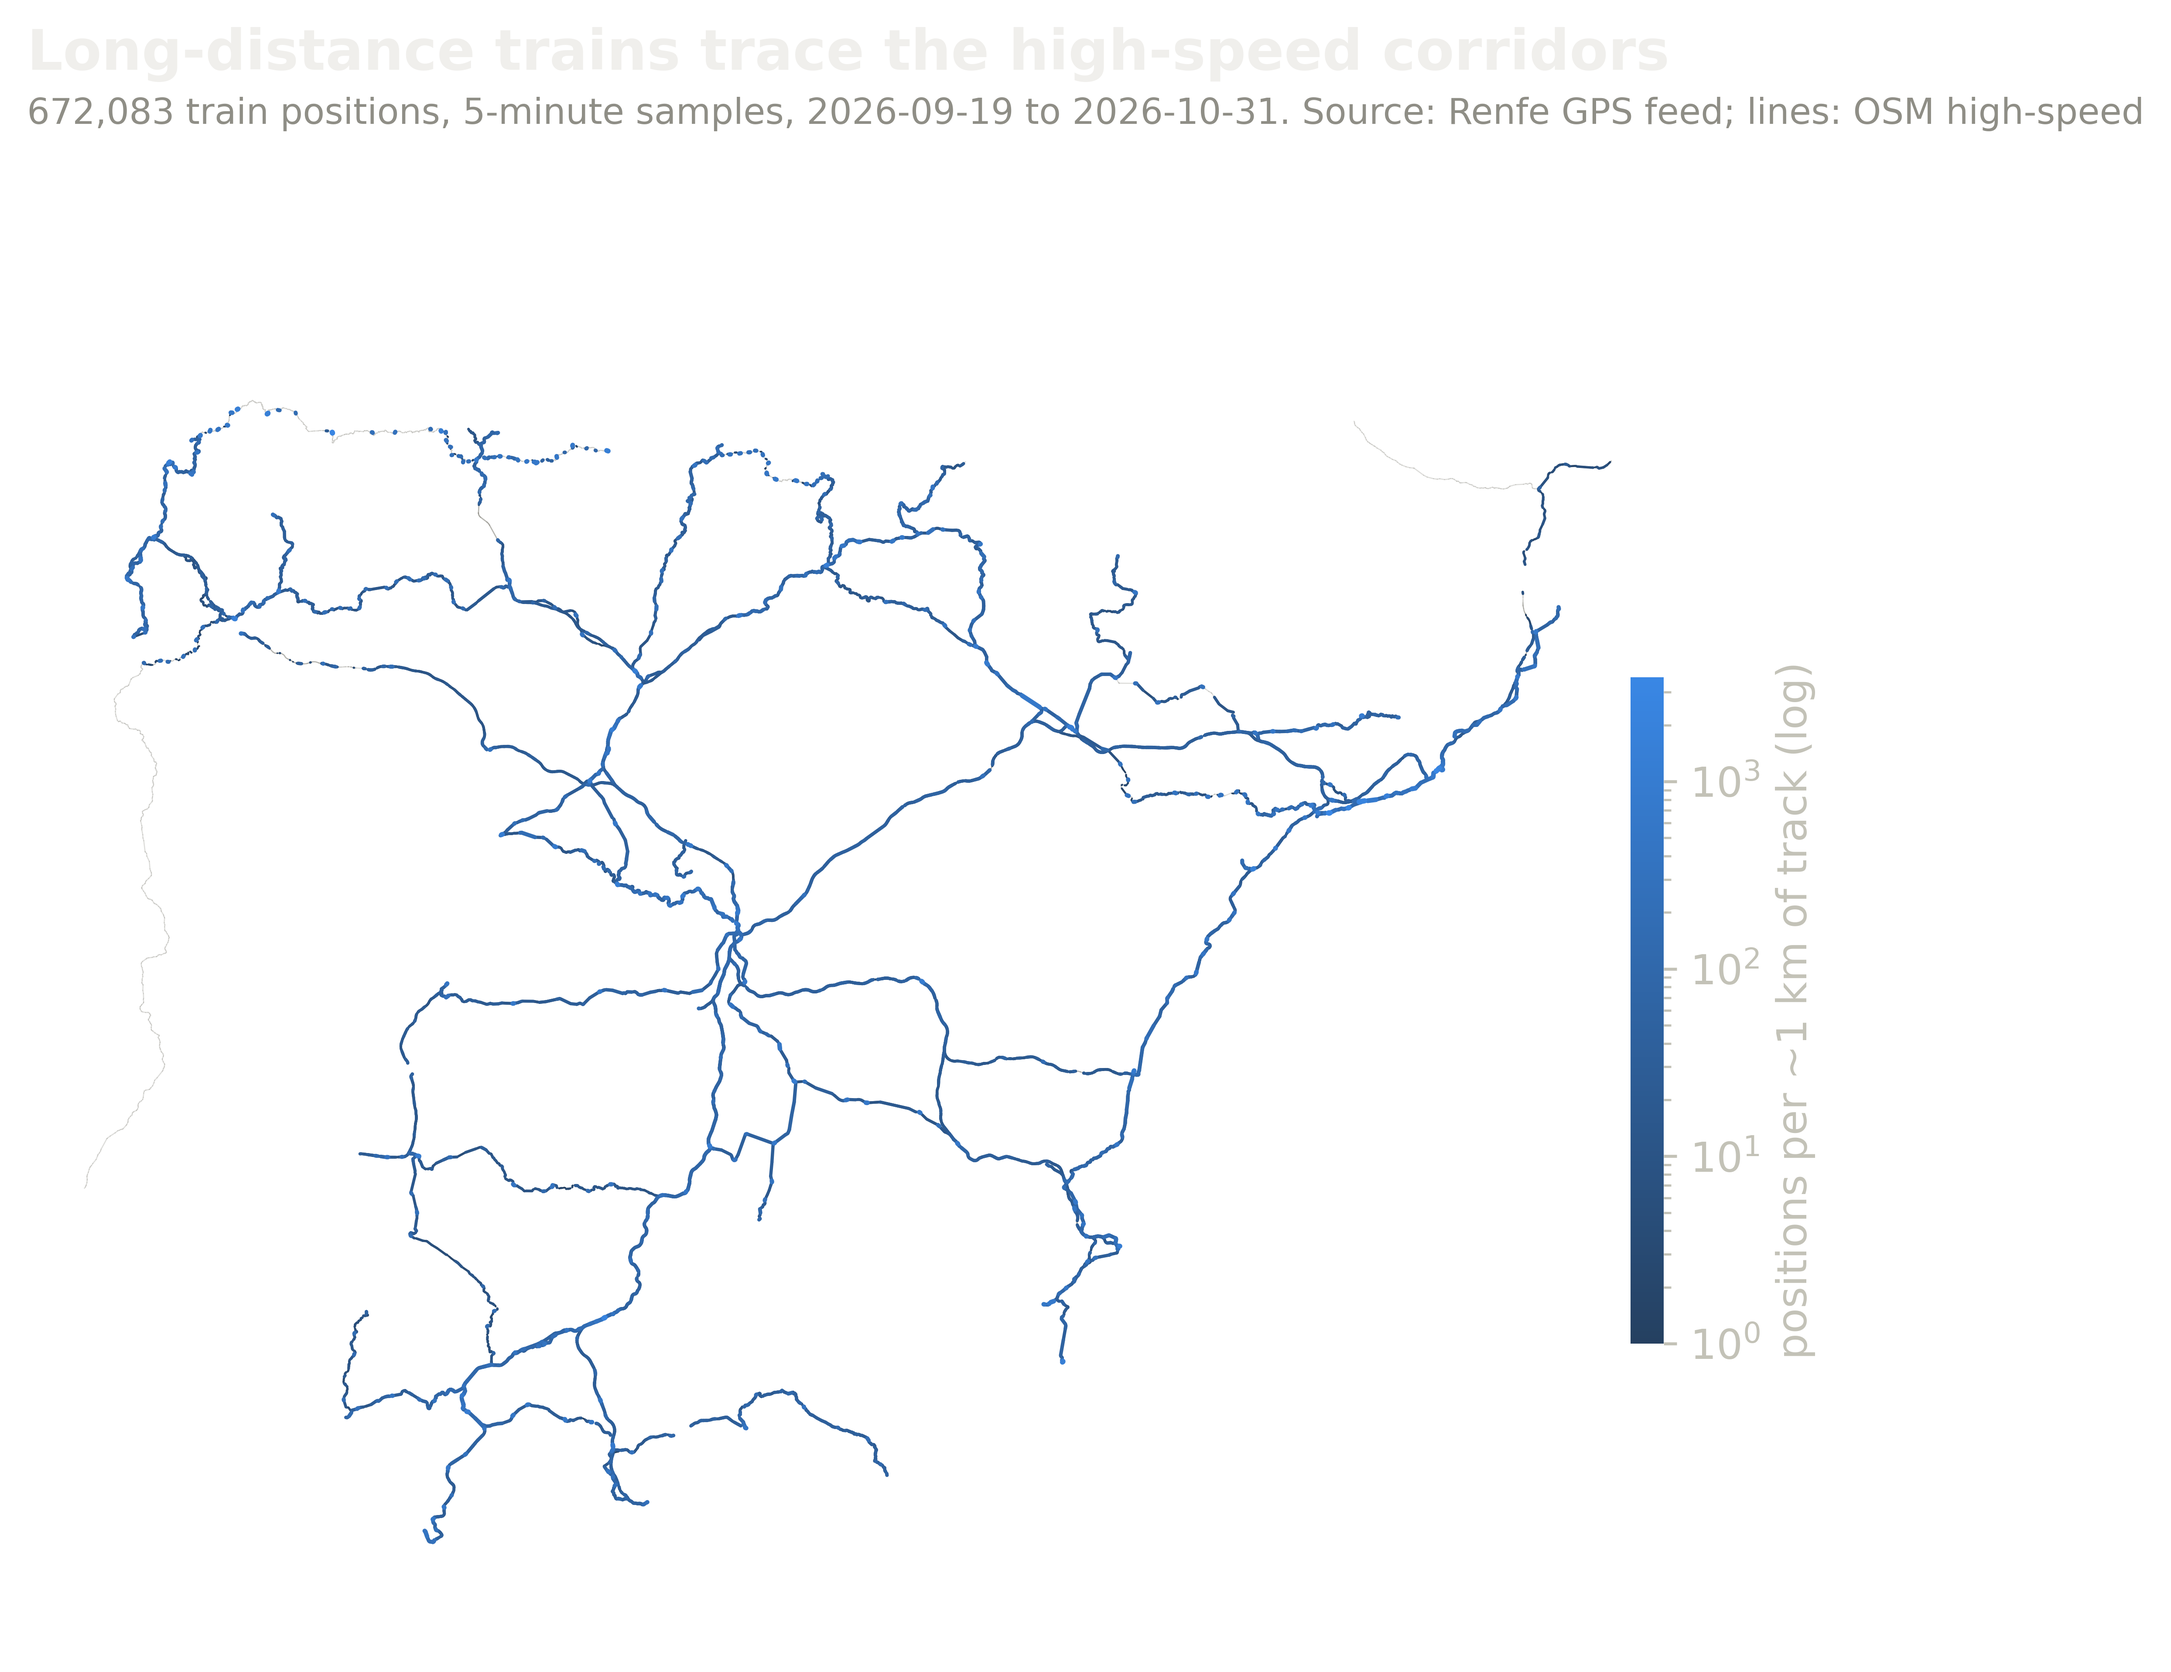
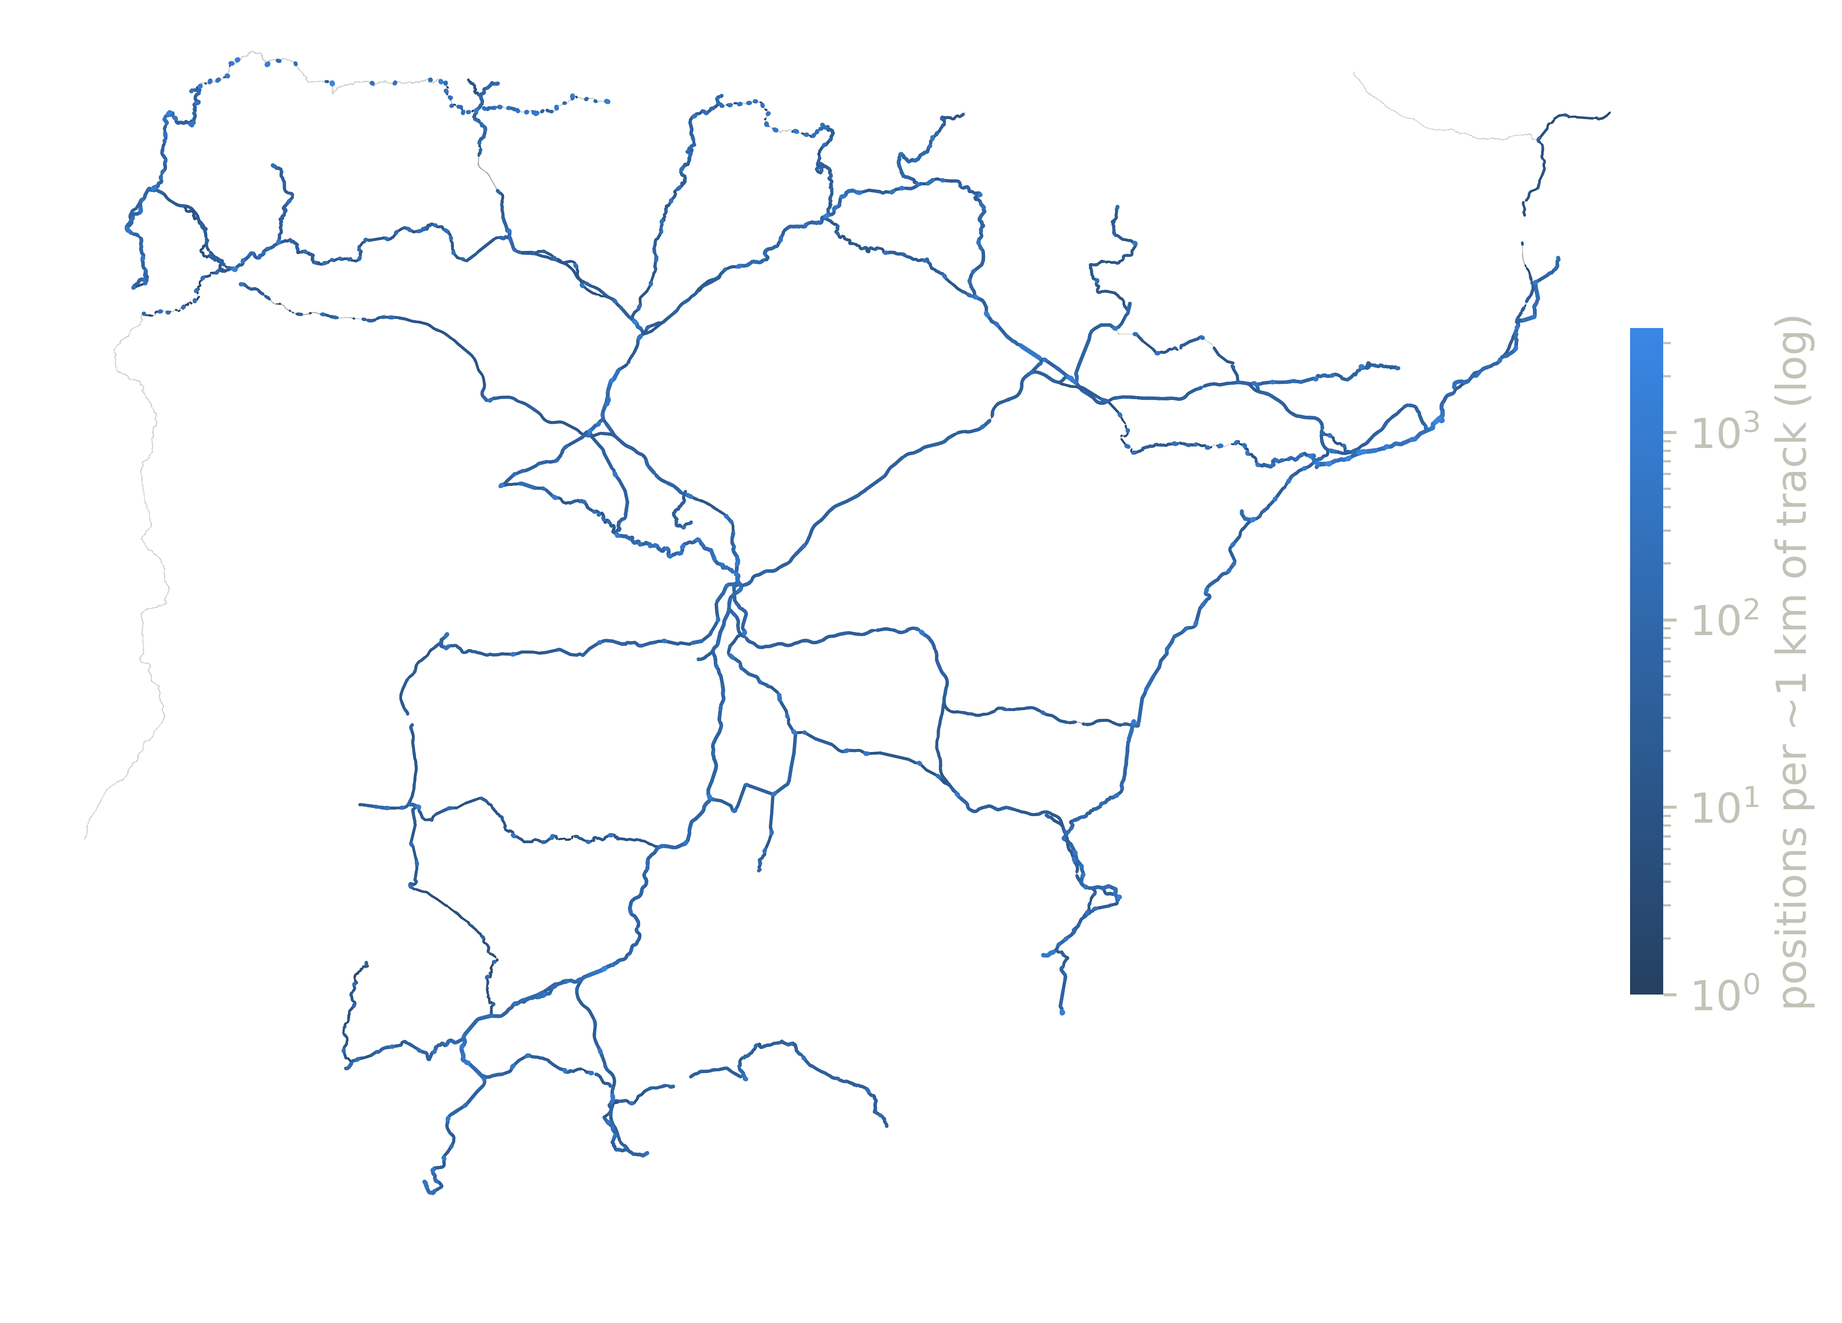
gallery: move chart text out of the images into the README

diff --git a/README.md b/README.md
@@ -4,75 +4,102 @@ Public record of Spanish rail traffic (Renfe live feeds, Cercanias, Basque and C
 
 ## Gallery
 
-Charts are generated from the `data` branch. They follow light and dark themes.
+Charts are generated from the `data` branch and follow the light and dark theme.
+
+### Long-distance trains trace the high-speed corridors
+
+<sub>672,083 train positions, 5-minute samples, 2026-09-19 to 2026-10-31. Source: Renfe GPS feed; lines: OSM high-speed</sub>
 
 <picture>
-  <source media="(prefers-color-scheme: dark)" srcset="docs/img/map1-density-dark.png?v=2">
-  <img alt="Where long-distance trains run: 672,000 positions over 43 days; the corridors emerge from the data alone." src="docs/img/map1-density-light.png?v=2" width="720">
+  <source media="(prefers-color-scheme: dark)" srcset="docs/img/map1-density-dark.png?v=3">
+  <img alt="Long-distance trains trace the high-speed corridors" src="docs/img/map1-density-light.png?v=3" width="100%">
 </picture>
 
-Where long-distance trains run: 672,000 positions over 43 days; the corridors emerge from the data alone.
+### Weekdays peak at 177 trains in service at 18:00; weekends reach 162
+
+<sub>Mean trains in service per 5-min snapshot, Europe/Madrid hours. Source: Renfe live feed via renfe-tracker stats, 2026-09-20 to 2026-10-31</sub>
 
 <picture>
-  <source media="(prefers-color-scheme: dark)" srcset="docs/img/daily-rhythm-dark.png?v=2">
-  <img alt="Trains in service by hour: weekday peak of 177 at 18:00, weekend peak of 162." src="docs/img/daily-rhythm-light.png?v=2" width="720">
+  <source media="(prefers-color-scheme: dark)" srcset="docs/img/daily-rhythm-dark.png?v=3">
+  <img alt="Weekdays peak at 177 trains in service at 18:00; weekends reach 162" src="docs/img/daily-rhythm-light.png?v=3" width="100%">
 </picture>
 
-Trains in service by hour: weekday peak of 177 at 18:00, weekend peak of 162.
+### Typical delay is 5 min, but the slowest tenth runs 64+ min late at 23:00
+
+<sub>Delay of positioned trains, GPS samples every 5 min (n=668,773), 05:00-23:59 Europe/Madrid. Source: renfe-tracker gps, 2026-09-19 to 2026-10-31</sub>
 
 <picture>
-  <source media="(prefers-color-scheme: dark)" srcset="docs/img/delay-by-hour-dark.png?v=2">
-  <img alt="Delay by hour: median about 5 min, 90th percentile above 60 min late at night." src="docs/img/delay-by-hour-light.png?v=2" width="720">
+  <source media="(prefers-color-scheme: dark)" srcset="docs/img/delay-by-hour-dark.png?v=3">
+  <img alt="Typical delay is 5 min, but the slowest tenth runs 64+ min late at 23:00" src="docs/img/delay-by-hour-light.png?v=3" width="100%">
 </picture>
 
-Delay by hour: median about 5 min, 90th percentile above 60 min late at night.
+### Cercanias: 27% of positions are 5+ min late, led by Madrid and Barcelona
+
+<sub>12,187 vehicle positions from 47 captures, 31 Oct 2026, coloured by delay (min). Grey: OSM rail network</sub>
 
 <picture>
-  <source media="(prefers-color-scheme: dark)" srcset="docs/img/map2-cercanias-dark.png?v=2">
-  <img alt="Cercanias positions by delay (one Saturday morning only, not representative)." src="docs/img/map2-cercanias-light.png?v=2" width="720">
+  <source media="(prefers-color-scheme: dark)" srcset="docs/img/map2-cercanias-dark.png?v=3">
+  <img alt="Cercanias: 27% of positions are 5+ min late, led by Madrid and Barcelona" src="docs/img/map2-cercanias-light.png?v=3" width="100%">
 </picture>
 
-Cercanias positions by delay (one Saturday morning only, not representative).
+### Asturias Cercanias trains ran 6.8 min late on average, the most of 4 nuclei
+
+<sub>Mean delay of observed vehicles, 5-min captures, 47 captures on 2026-10-31 (about 05:00 to 11:00 UTC). Source: Renfe GTFS-RT</sub>
 
 <picture>
-  <source media="(prefers-color-scheme: dark)" srcset="docs/img/cercanias-by-nucleus-dark.png?v=2">
-  <img alt="Mean Cercanias delay by nucleus (same single-morning caveat)." src="docs/img/cercanias-by-nucleus-light.png?v=2" width="720">
+  <source media="(prefers-color-scheme: dark)" srcset="docs/img/cercanias-by-nucleus-dark.png?v=3">
+  <img alt="Asturias Cercanias trains ran 6.8 min late on average, the most of 4 nuclei" src="docs/img/cercanias-by-nucleus-light.png?v=3" width="100%">
 </picture>
 
-Mean Cercanias delay by nucleus (same single-morning caveat).
+### 28 Oct 2026: long-distance traffic around Urda, 06:00 to 10:00 UTC
+
+<sub>Long-distance train positions, 5-minute samples (no per-minute data for 28 Oct). Collision about 07:54 UTC. Source: Renfe GPS feed; lines: OSM high-speed</sub>
 
 <picture>
-  <source media="(prefers-color-scheme: dark)" srcset="docs/img/map3-urda-dark.png?v=2">
-  <img alt="Long-distance traffic around Urda on 28 Oct 2026, 06:00 to 10:00 UTC." src="docs/img/map3-urda-light.png?v=2" width="720">
+  <source media="(prefers-color-scheme: dark)" srcset="docs/img/map3-urda-dark.png?v=3">
+  <img alt="28 Oct 2026: long-distance traffic around Urda, 06:00 to 10:00 UTC" src="docs/img/map3-urda-light.png?v=3" width="100%">
 </picture>
 
-Long-distance traffic around Urda on 28 Oct 2026, 06:00 to 10:00 UTC.
+### After the Urda collision the index in the cell reached 4.4, above the baseline p99 for that hour
+
+<sub>Health index, cell 39.25-39.50N / 4.00-3.75W, hourly, UTC, 28 Oct 2026; baseline = 41 normal days (8-17 scored days per hour)</sub>
 
 <picture>
-  <source media="(prefers-color-scheme: dark)" srcset="docs/img/safety3-health-urda-dark.png?v=2">
-  <img alt="Health index near Urda on 28 Oct 2026 against the baseline of 41 normal days. One labelled event, not a validated predictor." src="docs/img/safety3-health-urda-light.png?v=2" width="720">
+  <source media="(prefers-color-scheme: dark)" srcset="docs/img/safety3-health-urda-dark.png?v=3">
+  <img alt="After the Urda collision the index in the cell reached 4.4, above the baseline p99 for that hour" src="docs/img/safety3-health-urda-light.png?v=3" width="100%">
 </picture>
 
-Health index near Urda on 28 Oct 2026 against the baseline of 41 normal days. One labelled event, not a validated predictor.
+<sub>One labelled event, no validated predictive claim: the index is a descriptive anomaly score, not tested as a warning. No baseline or score for hour 07 (too few captures before 07:50) and hour 10; hours 8-9 are after the collision. Baseline lines are drawn straight across hours without baseline. Cell = the highest-scoring cell of the Urda zone; the exact collision coordinates are not in the dataset.</sub>
+
+### Significant rail accidents per million train-km fell from 0.38 in 2006 to 0.27 in 2024
+
+<sub>Spain, Eurostat tran_sf_railac / tran_sf_railvi / rail_tf_trainmv, 2006-2024 0.483</sub>
 
 <picture>
-  <source media="(prefers-color-scheme: dark)" srcset="docs/img/safety1-accidents-dark.png?v=2">
-  <img alt="Spain: significant rail accidents per million train-km, Eurostat 2006-2024." src="docs/img/safety1-accidents-light.png?v=2" width="720">
+  <source media="(prefers-color-scheme: dark)" srcset="docs/img/safety1-accidents-dark.png?v=3">
+  <img alt="Significant rail accidents per million train-km fell from 0.38 in 2006 to 0.27 in 2024" src="docs/img/safety1-accidents-light.png?v=3" width="100%">
 </picture>
 
-Spain: significant rail accidents per million train-km, Eurostat 2006-2024.
+<sub>Significant accident (ERA/Eurostat): at least one moving rail vehicle, with a death, serious injury or damage of EUR 150k+ or serious traffic disruption. Victims are people killed or seriously injured in such accidents (suicides excluded). Rates divide by total train-km (freight + passenger).</sub>
+
+### Rail deaths per million train-km: 0.08 in 2024 (18 killed, 3 seriously injured)
+
+<sub>Spain, Eurostat tran_sf_railac / tran_sf_railvi / rail_tf_trainmv, 2006-2024</sub>
 
 <picture>
-  <source media="(prefers-color-scheme: dark)" srcset="docs/img/safety1b-victims-dark.png?v=2">
-  <img alt="Spain: killed and seriously injured per million train-km, Eurostat 2006-2024." src="docs/img/safety1b-victims-light.png?v=2" width="720">
+  <source media="(prefers-color-scheme: dark)" srcset="docs/img/safety1b-victims-dark.png?v=3">
+  <img alt="Rail deaths per million train-km: 0.08 in 2024 (18 killed, 3 seriously injured)" src="docs/img/safety1b-victims-light.png?v=3" width="100%">
 </picture>
 
-Spain: killed and seriously injured per million train-km, Eurostat 2006-2024.
+<sub>Significant accident (ERA/Eurostat): at least one moving rail vehicle, with a death, serious injury or damage of EUR 150k+ or serious traffic disruption. Victims are people killed or seriously injured in such accidents (suicides excluded). Rates divide by total train-km (freight + passenger). The 2013 peak is the Angrois derailment (Eurostat: 105 killed). Series ends 2024: Adamuz and Urda (2026) are not in it.</sub>
+
+### Urda 2026 is the second deadliest rail accident in the seed list, after Angrois 2013
+
+<sub>Spain, 33 listed accidents since 2007 (Wikidata + Wikipedia seed, incomplete); hollow dots = 0 deaths</sub>
 
 <picture>
-  <source media="(prefers-color-scheme: dark)" srcset="docs/img/safety2-seed-timeline-dark.png?v=2">
-  <img alt="Accident seed list since 2007 (Wikidata and Wikipedia; casualty figures unverified, not a census)." src="docs/img/safety2-seed-timeline-light.png?v=2" width="720">
+  <source media="(prefers-color-scheme: dark)" srcset="docs/img/safety2-seed-timeline-dark.png?v=3">
+  <img alt="Urda 2026 is the second deadliest rail accident in the seed list, after Angrois 2013" src="docs/img/safety2-seed-timeline-light.png?v=3" width="100%">
 </picture>
 
-Accident seed list since 2007 (Wikidata and Wikipedia; casualty figures unverified, not a census).
-
+<sub>Casualty figures are UNVERIFIED and differ between sources; Urda (28 Oct 2026) is reported as 69-74 deaths, 74 plotted. The list is biased to media-covered events and is not a census (Eurostat counts ~50-100 significant accidents per year).</sub>
